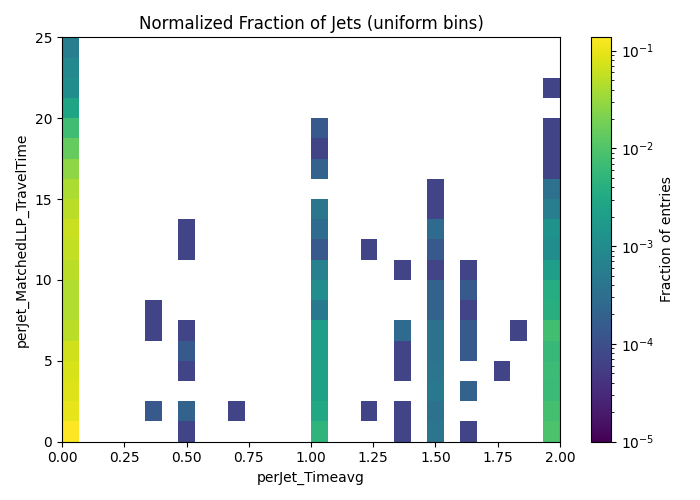
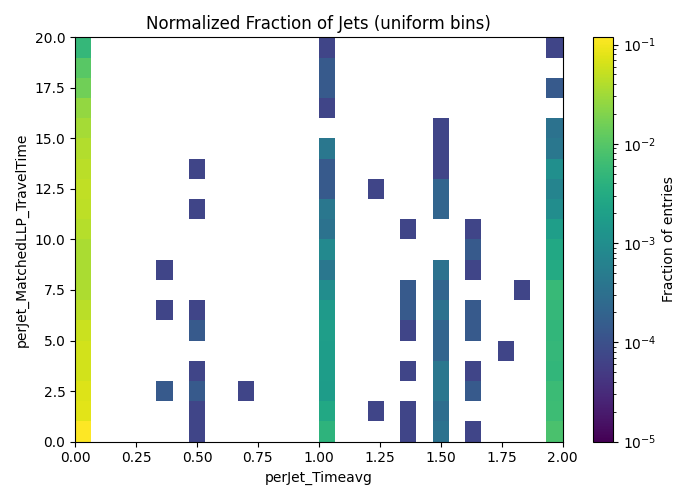
bin change and cleaning up

diff --git a/JetTimingStudy.py b/JetTimingStudy.py
@@ -1,6 +1,7 @@
 import uproot
 import numpy as np
 import matplotlib.pyplot as plt
+import matplotlib as mpl
 
 # -- File paths
 envdata_file =  "/home/submit/rozalena/LLP_Project_Data/Data_LLPskim_Run2023Cv4_ntuplesv3_20June.root" 
@@ -162,6 +163,126 @@ def make_overlay_plot(var_name, modified_range=False, lower_bound=None, upper_bo
 
     print("Saved plots to current directory!")
 
+# def make_2d_hist_plot():
+#     print("Running plotting function: make_2d_hist_plot()")
+#     plt.figure(figsize=(8, 6))
+
+#     # four decay r regions (cm): Tracker-inner, Tracker-outer, ECAL, HCAL
+#     decayr_bins = np.array([0, 10, 129, 177, 295])     
+
+#     # four timing regions (ns)  :  prompt 0-1, 1-5, 5-10, 10-20
+#     time_bins   = np.array([0, 1, 5, 10, 20])  
+
+#     decay_r_data = mc_arrays["perJet_MatchedLLP_DecayR"][mc_mask]
+#     travel_time_data = mc_arrays["perJet_MatchedLLP_TravelTime"][mc_mask]
+
+#     counts, _, _ = np.histogram2d(decay_r_data, travel_time_data,
+#                                 bins=[decayr_bins, time_bins])
+#     counts_norm = counts / counts.sum()
+
+#     fig, ax = plt.subplots(figsize=(6, 6))
+#     im = ax.imshow(counts_norm.T, origin='lower', cmap='viridis', aspect='equal')
+
+#     ax.set_xticks(np.arange(4) + 0.5)
+#     ax.set_yticks(np.arange(4) + 0.5)
+#     x_range_labels = ["10", "129", "177", "295"]
+#     ax.set_xticklabels(x_range_labels)   
+#     y_range_labels = ["1", "5", "10", "20"]
+#     ax.set_yticklabels(y_range_labels)
+
+#     ax.set_xticks(np.arange(-.5, 4, 1), minor=True)
+#     ax.set_yticks(np.arange(-.5, 4, 1), minor=True)
+#     ax.grid(which='minor', color='w', linewidth=1)
+
+#     ax.set_xlabel("LLP Decay-R  [cm]")
+#     ax.set_ylabel("LLP Travel Time  [ns]")
+#     ax.set_title("Normalised Fraction of Jets")
+#     fig.colorbar(im, ax=ax, label="Fraction of entries")
+#     plt.tight_layout()
+#     plt.show()
+
+#     plt.savefig("decay_r_vs_time/graph")
+#     plt.close()
+#     print("Saved plot to current directory!")
+
+# def make_2d_hist():
+#     print("Running plotting function: make_2d_hist()")
+#     x_lo, x_hi = 0, 300      # Decay-R range  [cm]
+#     y_lo, y_hi = 0, 20       # Travel-time    [ns]
+
+#     n_xbins    = 30
+#     n_ybins    = 20
+
+#     decayr_edges = np.linspace(x_lo, x_hi, n_xbins + 1)
+#     time_edges   = np.linspace(y_lo, y_hi, n_ybins + 1)
+
+#     decay_r = mc_arrays["perJet_MatchedLLP_DecayR"][mc_mask]
+#     travel_t = mc_arrays["perJet_MatchedLLP_TravelTime"][mc_mask]
+
+#     counts, _, _ = np.histogram2d(decay_r, travel_t, bins=[decayr_edges, time_edges])
+#     counts_norm  = counts / counts.sum()
+
+   
+#     fig, ax = plt.subplots(figsize=(7, 5))
+
+#     pcm = ax.pcolormesh(decayr_edges, time_edges, counts_norm.T,
+#                         cmap='viridis', shading='auto',
+#                         norm=mpl.colors.LogNorm(vmin=1e-5, vmax=counts_norm.max()))
+#     # log color scale so you can see when there are 0 jets
+
+#     ax.set_xlabel("LLP Decay-R [cm]")
+#     ax.set_ylabel("LLP Travel Time [ns]")
+#     ax.set_title("Normalized Fraction of Jets (uniform bins)")
+
+#     cbar = fig.colorbar(pcm, ax=ax)
+#     cbar.set_label("Fraction of entries")
+
+#     plt.tight_layout()
+#     plt.show()
+
+#     plt.savefig("2d_histograms/decay_r_and_travel_time")
+#     plt.close()
+#     print("Saved plot to current directory!")
+
+def make_2d_no_cuts_hist_plot(x_array=None, y_array=None, x_array_mask=None, y_array_mask=None, x_data=None, y_data=None):
+    x_lo, x_hi, n_xbins, x_var_name = x_data[0], x_data[1], x_data[2], x_data[3]
+    y_lo, y_hi, n_ybins, y_var_name = y_data[0], y_data[1], y_data[2], y_data[3]
+
+    print(f"Running plotting function: make_2d_no_cuts_hist_plot() for {x_var_name} and {y_var_name}")
+
+    x_axis_edges = np.linspace(x_lo, x_hi, n_xbins + 1)
+    y_axis_edges   = np.linspace(y_lo, y_hi, n_ybins + 1)
+
+    x_axis_graph = x_array[x_var_name][x_array_mask] 
+    y_axis_graph = y_array[y_var_name][y_array_mask]
+
+
+    counts, _, _ = np.histogram2d(x_axis_graph, y_axis_graph, bins=[x_axis_edges, y_axis_edges])
+    counts_norm  = counts / counts.sum()
+
+   
+    fig, ax = plt.subplots(figsize=(7, 5))
+
+    pcm = ax.pcolormesh(x_axis_edges, y_axis_edges, counts_norm.T,
+                        cmap='viridis', shading='auto',
+                        norm=mpl.colors.LogNorm(vmin=1e-5, vmax=counts_norm.max()))
+    # log color scale so you can see when there are 0 jets
+
+    ax.set_xlabel(x_var_name)
+    ax.set_ylabel(y_var_name)
+    ax.set_title("Normalized Fraction of Jets (uniform bins)")
+
+    cbar = fig.colorbar(pcm, ax=ax)
+    cbar.set_label("Fraction of entries")
+
+    plt.tight_layout()
+    plt.show()
+
+    plt.savefig(f"2d_histograms/{x_var_name}_and_{y_var_name}")
+    plt.close()
+    print("Saved plot to current directory!")
+
+
 # -- Extra MC regions to compare (optional)
 extra_decay_r_mc_regions = [
     ("DecayR Tracker 0-10 cm", (0, 10), "green", get_decay_r_mc_cut),
@@ -185,5 +306,18 @@ normalize = True  # Set this flag to True or False based on your need
 # Change based on type of constraint used (time or decay r)
 constraint_type, detailed_variables_to_plot = extra_decay_r_mc_regions, detailed_decay_r_constraint_vars 
 
-for var, modify_range, lower_bound, upper_bound, bins  in detailed_variables_to_plot:
-    make_overlay_plot(var, modified_range=modify_range, lower_bound=lower_bound, upper_bound=upper_bound, bins=bins, extra_mc_cuts=constraint_type, normalize_to_one=normalize, output_prefix="overlay")
+# for var, modify_range, lower_bound, upper_bound, bins  in detailed_variables_to_plot:
+#     make_overlay_plot(var, modified_range=modify_range, lower_bound=lower_bound, upper_bound=upper_bound, bins=bins, extra_mc_cuts=constraint_type, normalize_to_one=normalize, output_prefix="overlay")
+
+two_d_hist_info = [
+    (0, 2, 30, "perJet_Timeavg"), 
+    (0, 2, 30, "perJet_TDCavg_energyWeight"), 
+    (0, 20, 20, "perJet_MatchedLLP_TravelTime"), 
+    (0, 300, 30, "perJet_MatchedLLP_DecayR"), 
+    ]
+# time avg vs tdc avg energy weight
+make_2d_no_cuts_hist_plot(x_array=data_arrays, y_array=data_arrays, x_array_mask=data_mask, y_array_mask=data_mask, x_data=two_d_hist_info[0], y_data=two_d_hist_info[1])
+# time avg vs matched LLP travel time
+make_2d_no_cuts_hist_plot(x_array=mc_arrays, y_array=mc_arrays, x_array_mask=mc_mask, y_array_mask=mc_mask, x_data=two_d_hist_info[0], y_data=two_d_hist_info[2])
+# matched LLP decay R vs travel time
+make_2d_no_cuts_hist_plot(x_array=mc_arrays, y_array=mc_arrays, x_array_mask=mc_mask, y_array_mask=mc_mask, x_data=two_d_hist_info[3], y_data=two_d_hist_info[2])
